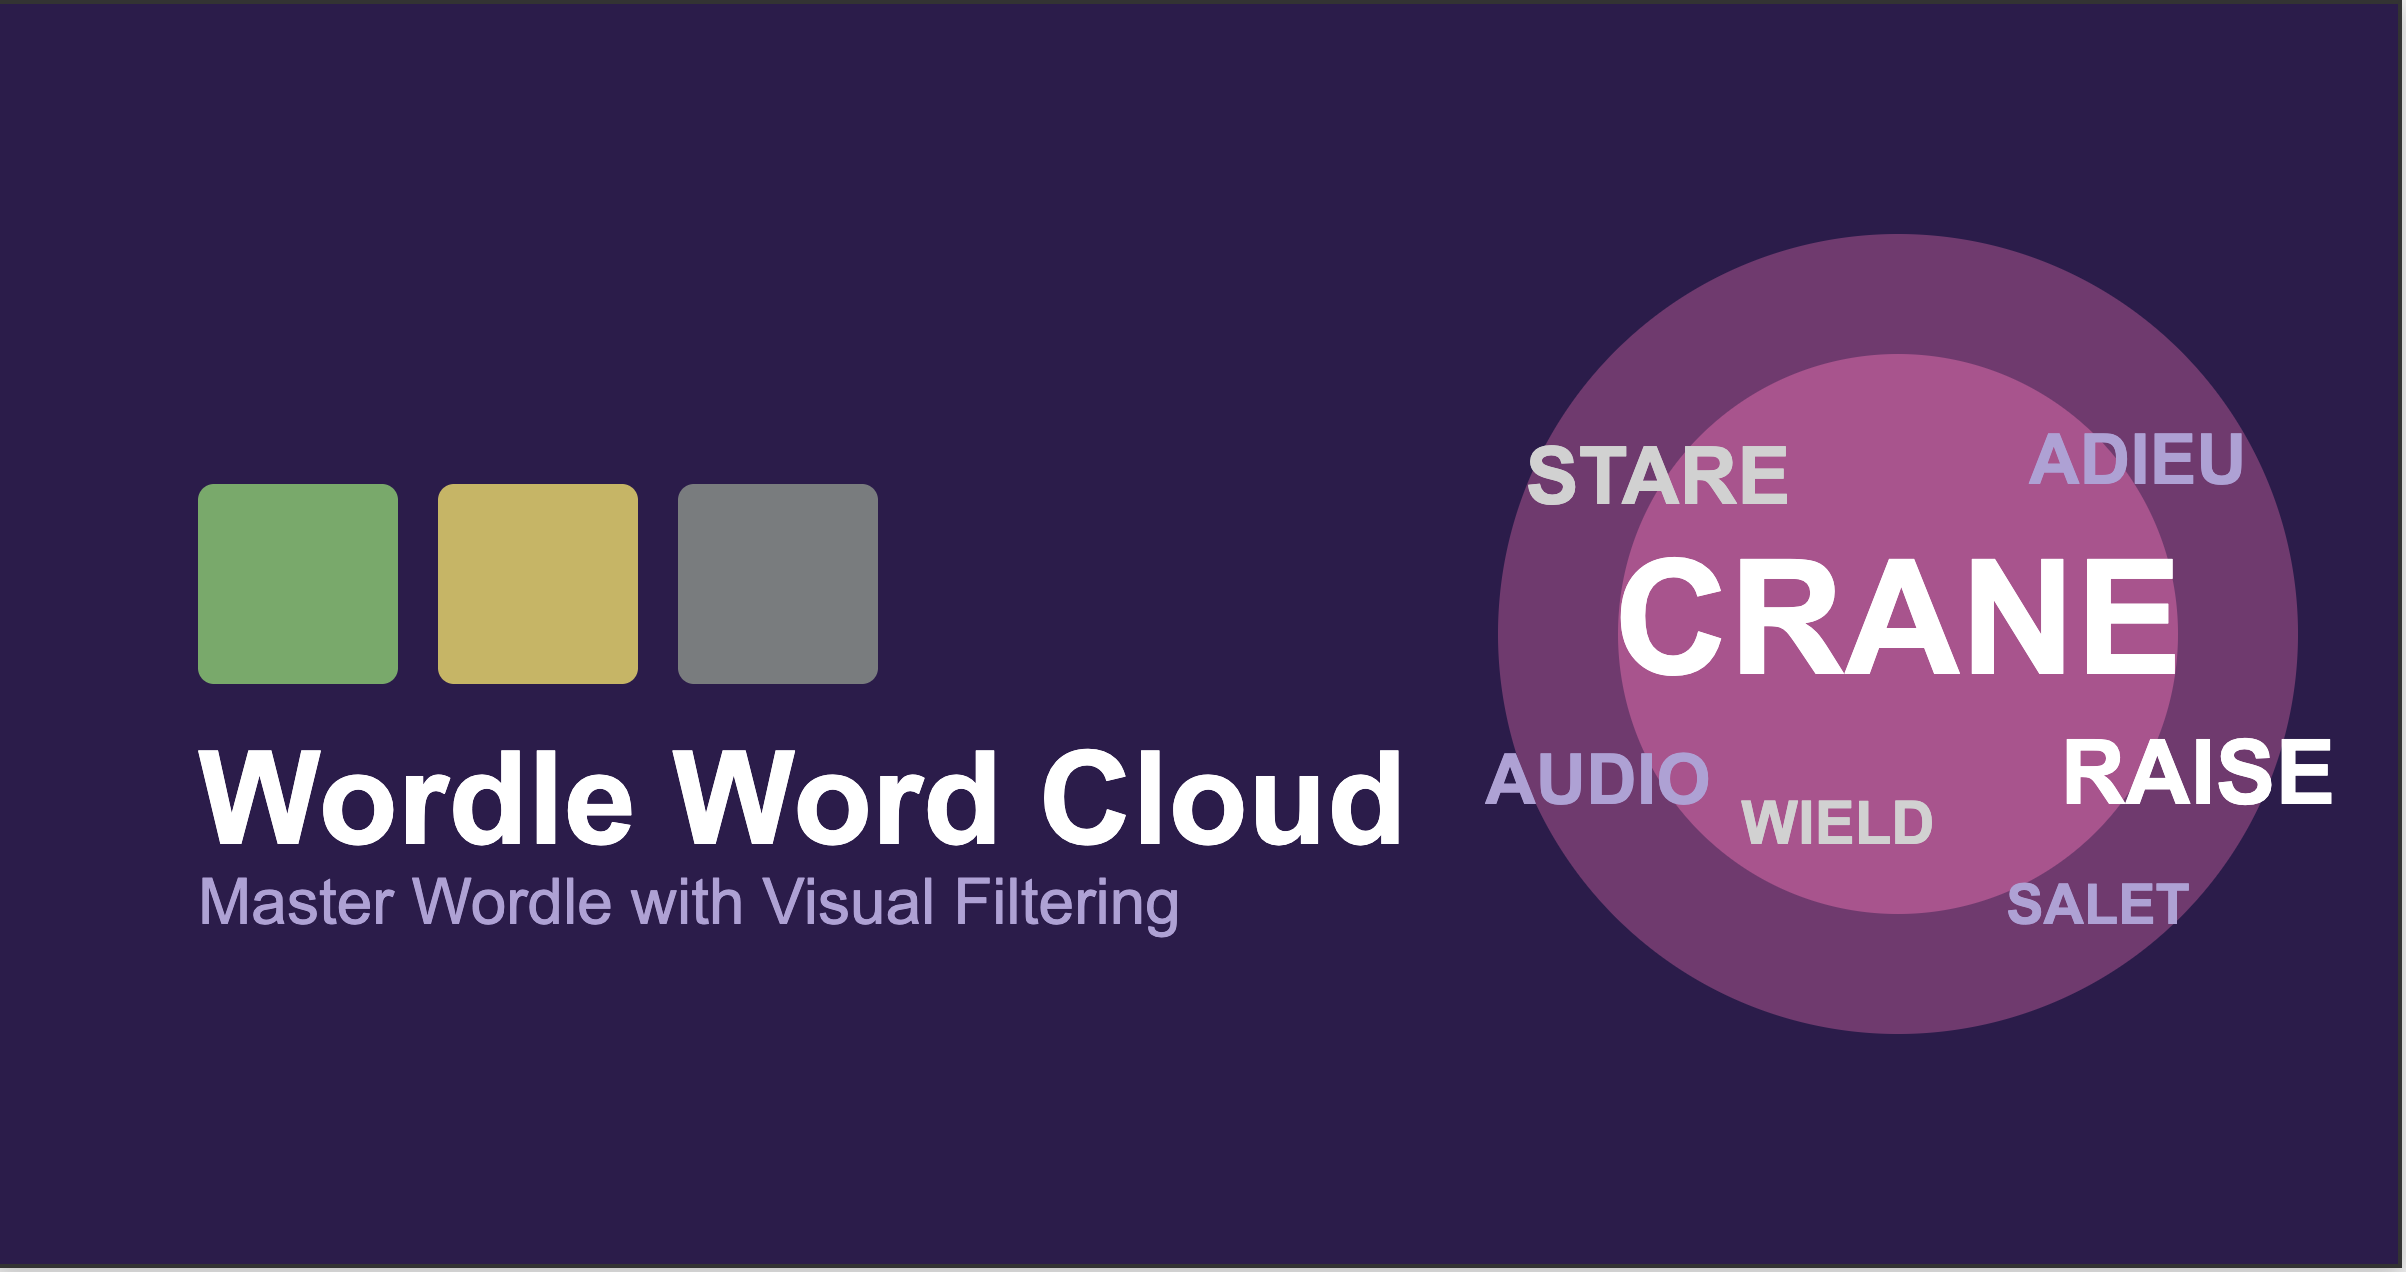
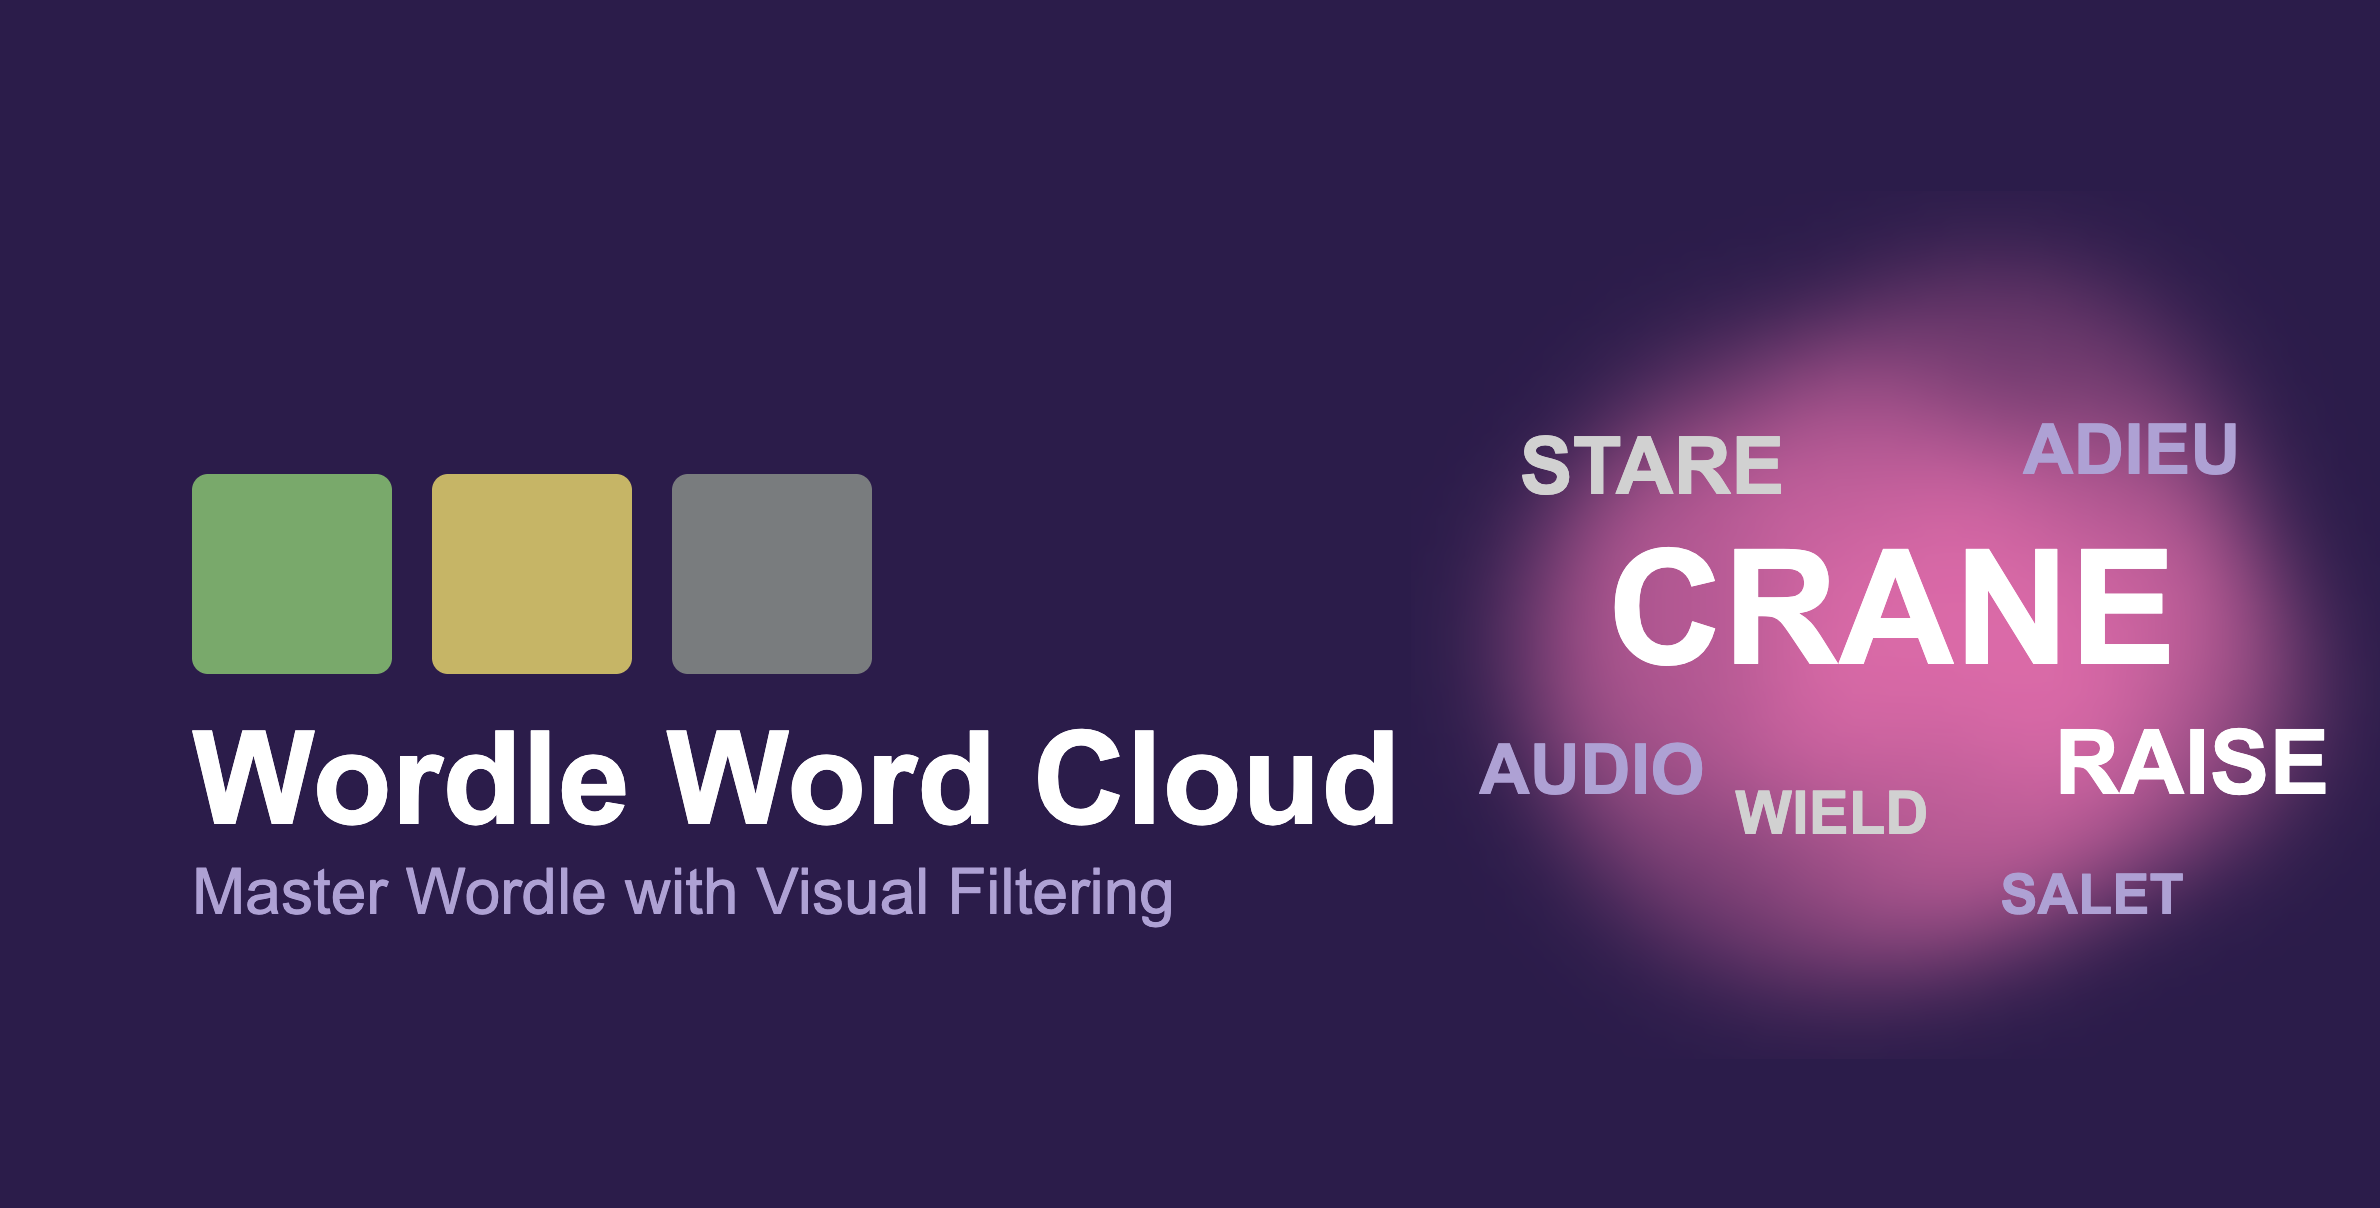
feat: update OG image with organic fluffy cloud design
- Replace circles with multiple irregular circles for organic cloud effect
- Add Gaussian blur filter (stdDeviation=25) for soft, dreamy appearance
- Increase cloud size by 30% for better prominence
- Update og-preview.html with new cloud design

🤖 Generated with [Claude Code](https://claude.com/claude-code)

Changed region(s): [[0.0, 0.0, 1.0, 1.0], [0.0622, 0.5207, 0.5908, 0.7657], [0.0622, 0.3675, 0.3731, 0.3982]]

diff --git a/og-preview.html b/og-preview.html
@@ -50,16 +50,31 @@
 
   <div class="preview-container">
     <svg width="1200" height="630" viewBox="0 0 1200 630" xmlns="http://www.w3.org/2000/svg">
+      <defs>
+        <filter id="cloudBlur">
+          <feGaussianBlur in="SourceGraphic" stdDeviation="25" />
+        </filter>
+      </defs>
+
       <rect width="1200" height="630" fill="#2d1b4d"/>
-      
-      <circle cx="950" cy="315" r="200" fill="#FF69B4" fill-opacity="0.35" />
-      <circle cx="950" cy="315" r="140" fill="#FF69B4" fill-opacity="0.45" />
+
+      <!-- Organic cloud made of multiple irregular circles -->
+      <g filter="url(#cloudBlur)">
+        <circle cx="900" cy="280" r="113" fill="#FF69B4" fill-opacity="0.3" />
+        <circle cx="1000" cy="260" r="125" fill="#FF69B4" fill-opacity="0.35" />
+        <circle cx="1050" cy="300" r="93" fill="#FF69B4" fill-opacity="0.25" />
+        <circle cx="920" cy="350" r="146" fill="#FF69B4" fill-opacity="0.4" />
+        <circle cx="1020" cy="340" r="120" fill="#FF69B4" fill-opacity="0.35" />
+        <circle cx="850" cy="320" r="99" fill="#FF69B4" fill-opacity="0.28" />
+        <circle cx="980" cy="380" r="106" fill="#FF69B4" fill-opacity="0.32" />
+        <circle cx="1080" cy="350" r="86" fill="#FF69B4" fill-opacity="0.3" />
+      </g>
 
       <rect x="100" y="240" width="100" height="100" rx="8" fill="#6aaa64"/>
       <rect x="220" y="240" width="100" height="100" rx="8" fill="#c9b458"/>
       <rect x="340" y="240" width="100" height="100" rx="8" fill="#787c7e"/>
 
-      <text x="100" y="420" font-family="Arial, sans-serif" font-weight="bold" font-size="65" fill="white">Wordle Word Cloud</text>
+      <text x="100" y="415" font-family="Arial, sans-serif" font-weight="bold" font-size="65" fill="white">Wordle Word Cloud</text>
       <text x="100" y="460" font-family="Arial, sans-serif" font-size="32" fill="#b1a0d8">Master Wordle with Visual Filtering</text>
 
       <g font-family="Arial, sans-serif" font-weight="bold" text-anchor="middle">
